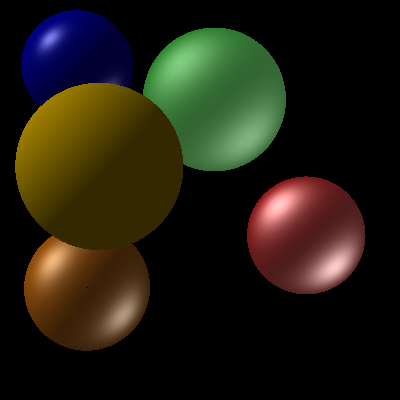
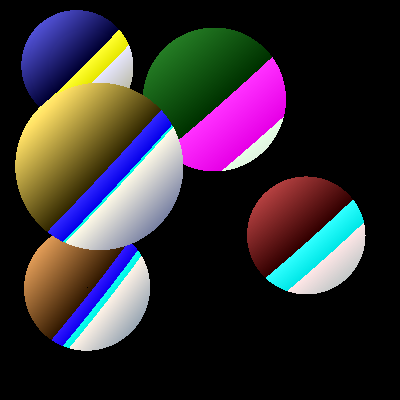
Revert "ça s'ameliore"
This reverts commit 1a6036c4bb495839c91297fb8b1afea10377694b.

diff --git a/raytracerframework_cpp/scene.cpp b/raytracerframework_cpp/scene.cpp
@@ -57,30 +57,26 @@ Color Scene::trace(const Ray &ray)
     *        pow(a,b)           a to the power of b
     ****************************************************/
 
-	Vector L, R;
+	Vector L;
 
 	//ambiant member
     Color ambiant = material->color * material->ka;                  // place holder
 
 	//difuse member
-	Color diffuse, specular;
-
+	Color diffuse(0, 0, 0);
+	Color specular(0, 0, 0);
 	for(size_t i = 0 ; i < lights.size() ; i++)
 	{
 		L = (lights.at(i)->position - hit).normalized();
 
-		if(L.dot(N) > 0)
-			diffuse += L.dot(N) * lights.at(i)->color;
+		diffuse += L.dot(N) * (material->color + lights.at(i)->color);
 
-		R = (2 * L.dot(N) * N - L).normalized();
-
-		//if(R.dot(V) > 0)
-			specular += pow(R.dot(V), material->n) * lights.at(i)->color;
+		specular += pow((2 * L.dot(N) * N - L).dot(V), material->n) * lights.at(i)->color;
 	}
-	diffuse = diffuse * material->kd * material->color;
+	diffuse *= material->kd;
 	specular *= material->ks;
 
-    return ambiant + diffuse + specular;
+    return ambiant + diffuse /*+ specular*/;
 }
 
 void Scene::render(Image &img)
